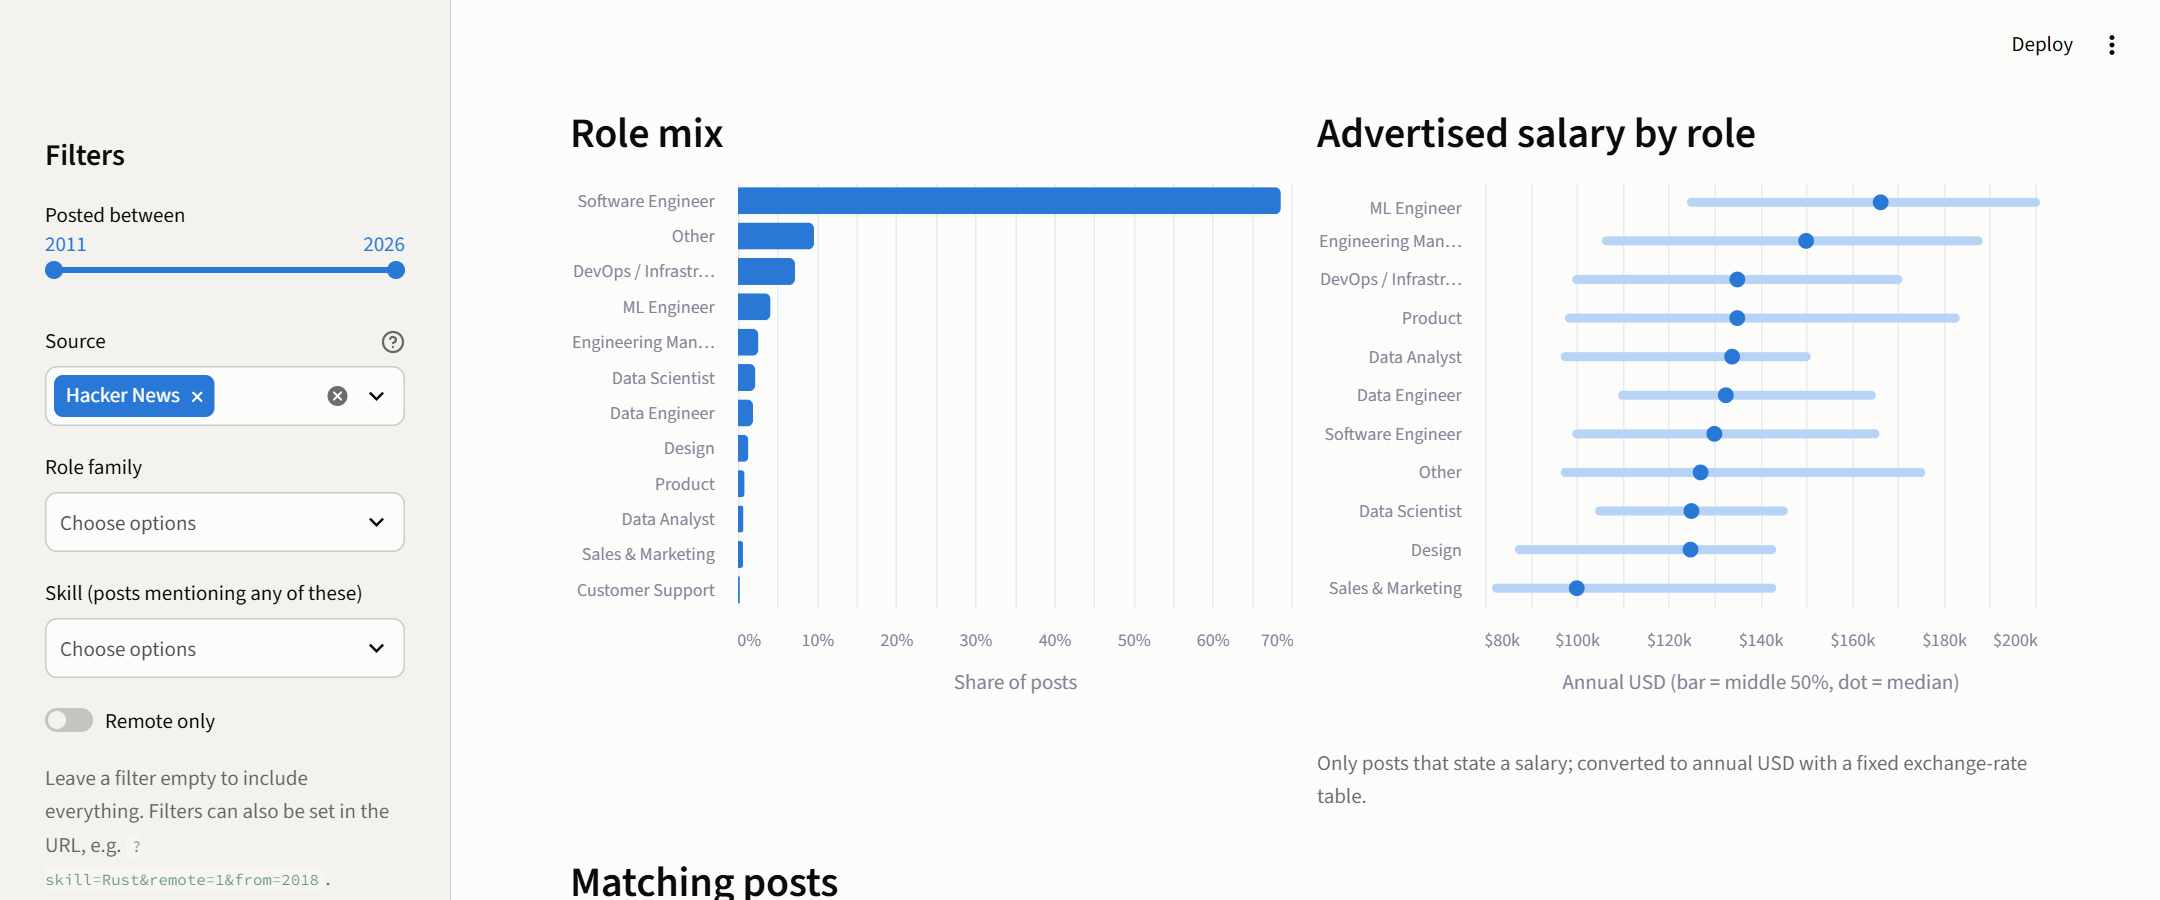
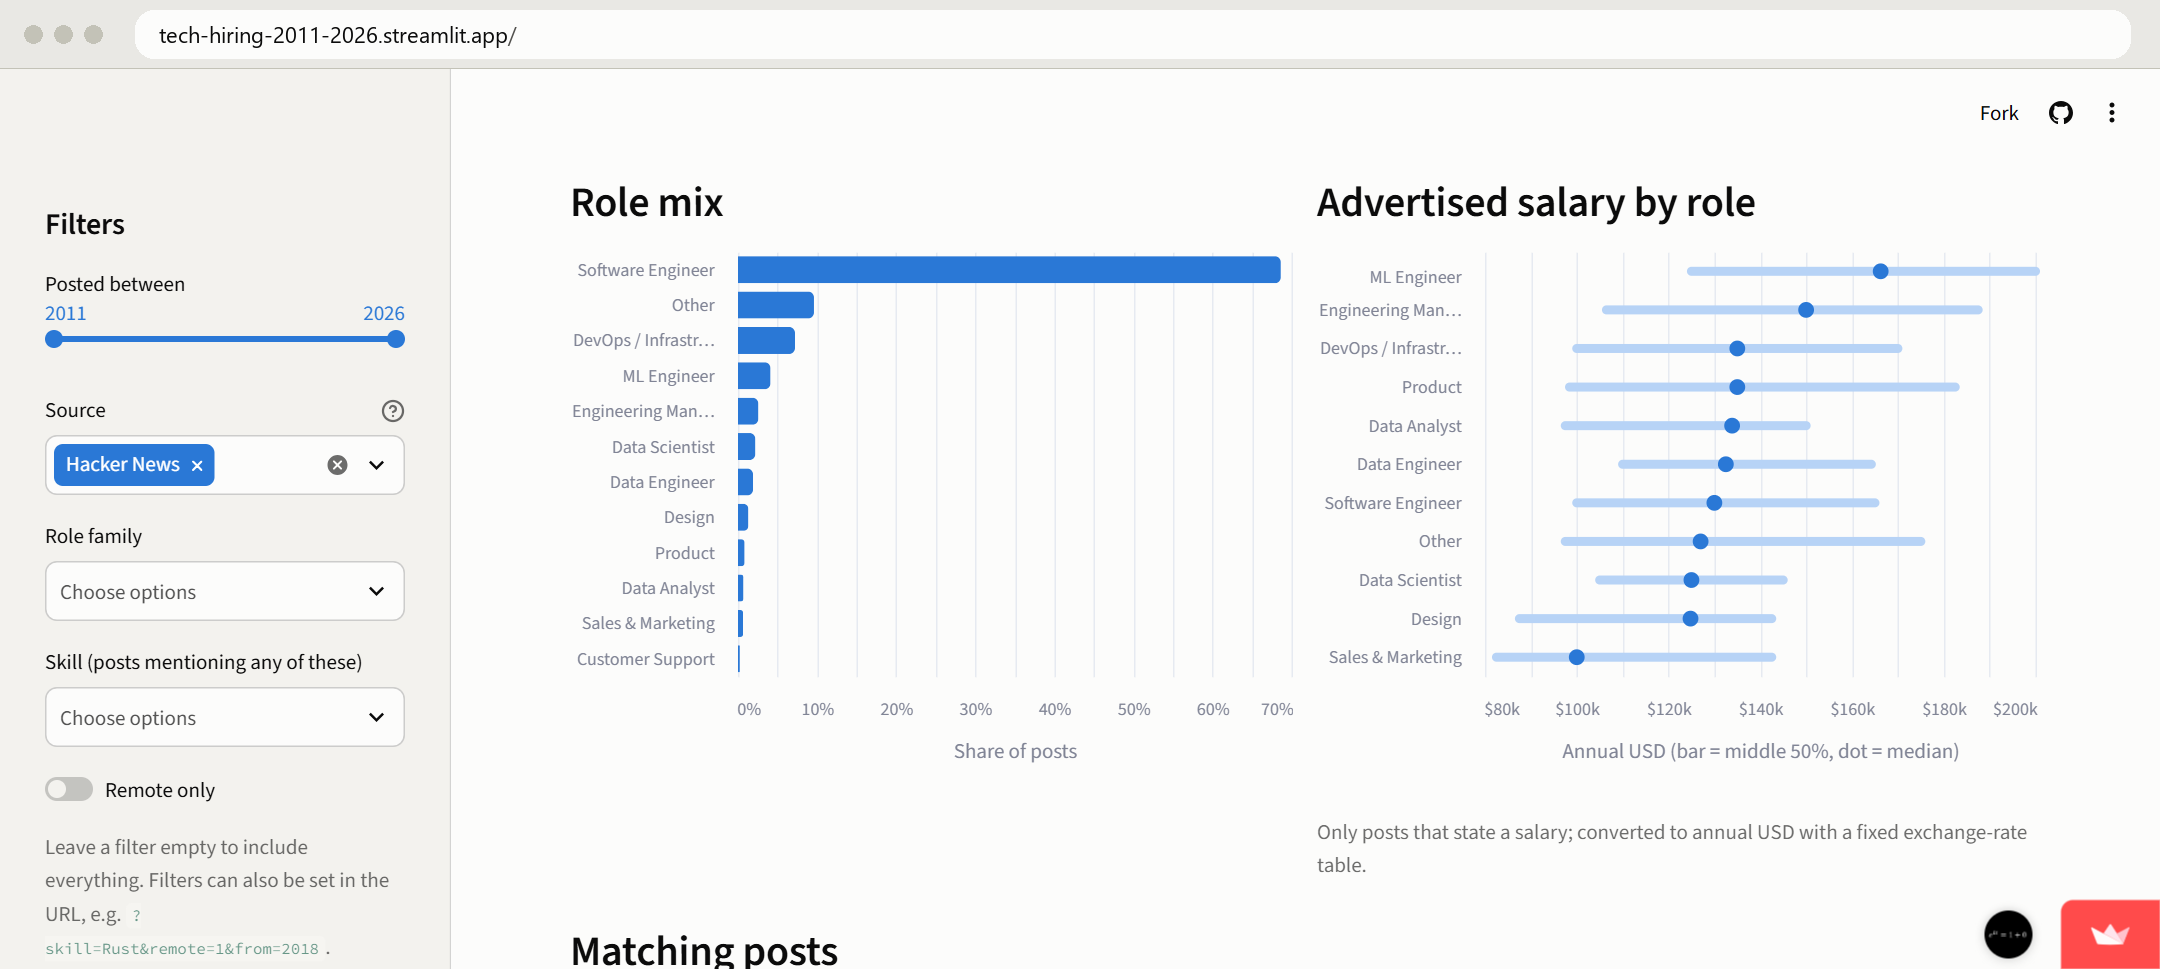
Showcase: dashboard screenshots from the deployed app with endpoint address bars

diff --git a/reports/capture_dashboard.py b/reports/capture_dashboard.py
@@ -1,23 +1,26 @@
-"""Capture dashboard screenshots for the showcase.
+"""Capture dashboard screenshots for the showcase, each with its endpoint in an address bar.
 
 Needs Playwright (dev-only dependency; it drives the Edge already installed on Windows,
 so no browser download):   pip install playwright
 
-Start the dashboard first (streamlit run dashboard/app.py), then:
-
-    python -m reports.capture_dashboard
+    python -m reports.capture_dashboard                              # the deployed app
+    python -m reports.capture_dashboard http://localhost:8501/       # a local run
 
 Each view is just a URL, because the dashboard reads its filters from the query string.
+The address bar drawn on top of every image shows exactly the URL that produced it.
 """
 from __future__ import annotations
 
+import io
+import sys
 from pathlib import Path
 
-from playwright.sync_api import sync_playwright
+from PIL import Image, ImageDraw, ImageFont
+from playwright.sync_api import Frame, Page, sync_playwright
 
 FIG = Path(__file__).resolve().parent / "figures"
-BASE = "http://localhost:8501/"
-W = 1440
+LIVE = "https://tech-hiring-2011-2026.streamlit.app/"
+W, SCALE = 1440, 1.5
 
 # file name -> (query string, heading to scroll to or None for the top, viewport height)
 SHOTS = {
@@ -30,27 +33,68 @@ SHOTS = {
 }
 
 
-def settle(page) -> None:
-    page.wait_for_selector("h1", timeout=60_000)
-    page.wait_for_selector("text=Matching posts", timeout=60_000)
-    page.wait_for_function("document.querySelectorAll('canvas, svg.marks').length >= 5", timeout=60_000)
-    page.wait_for_function("!document.querySelector('[data-testid=\"stStatusWidget\"]')", timeout=60_000)
-    page.wait_for_timeout(1500)
+def app_frame(page: Page) -> Frame:
+    """Streamlit Community Cloud wraps the app in an iframe; locally it is the page itself."""
+    page.wait_for_function(
+        "() => [window, ...Array.from(window.frames)].some(w => { try { return w.document.querySelector('h1') } catch (e) { return false } })",
+        timeout=180_000)
+    for _ in range(120):
+        for fr in page.frames:
+            try:
+                if fr.query_selector("h1") and fr.query_selector("[data-testid='stSidebar']"):
+                    return fr
+            except Exception:
+                pass
+        page.wait_for_timeout(500)
+    raise RuntimeError("dashboard did not load")
 
 
-with sync_playwright() as p:
-    browser = p.chromium.launch(channel="msedge")
-    for name, (query, heading, height) in SHOTS.items():
-        page = browser.new_page(viewport={"width": W, "height": height}, device_scale_factor=1.5,
-                                color_scheme="light")
-        page.goto(BASE + query)
-        settle(page)
-        if heading:
-            page.get_by_role("heading", name=heading).scroll_into_view_if_needed()
-            page.evaluate("""(h) => { const el = [...document.querySelectorAll('h2,h3')].find(e => e.innerText.trim() === h);
-                                      el.scrollIntoView({block: 'start'}); }""", heading)
-            page.wait_for_timeout(1200)
-        page.screenshot(path=str(FIG / name))
-        page.close()
-        print("wrote", name)
-    browser.close()
+def settle(fr: Frame) -> None:
+    fr.wait_for_selector("text=Matching posts", timeout=120_000)
+    fr.wait_for_function("document.querySelectorAll('canvas, svg.marks').length >= 5", timeout=120_000)
+    fr.wait_for_function("!document.querySelector('[data-testid=\"stStatusWidget\"]')", timeout=120_000)
+    fr.page.wait_for_timeout(2000)
+
+
+def with_address_bar(png: bytes, url: str) -> Image.Image:
+    shot = Image.open(io.BytesIO(png)).convert("RGB")
+    bar_h = int(46 * SCALE)
+    out = Image.new("RGB", (shot.width, shot.height + bar_h), "#e9e8e4")
+    out.paste(shot, (0, bar_h))
+    d = ImageDraw.Draw(out)
+    pad, r = int(10 * SCALE), int(13 * SCALE)
+    for i, col in enumerate(("#c3c2b7", "#c3c2b7", "#c3c2b7")):          # window dots
+        cx = int((22 + i * 20) * SCALE)
+        d.ellipse((cx - 6 * SCALE, bar_h / 2 - 6 * SCALE, cx + 6 * SCALE, bar_h / 2 + 6 * SCALE), fill=col)
+    x0 = int(90 * SCALE)
+    d.rounded_rectangle((x0, pad * 0.7, shot.width - pad * 2, bar_h - pad * 0.7), radius=r, fill="#fcfcfb")
+    try:
+        font = ImageFont.truetype("segoeui.ttf", int(15 * SCALE))
+    except OSError:
+        font = ImageFont.load_default()
+    host, _, rest = url.partition("://")[2].partition("/")
+    tx = x0 + int(16 * SCALE)
+    d.text((tx, bar_h / 2), host, font=font, fill="#0b0b0b", anchor="lm")
+    d.text((tx + d.textlength(host, font=font), bar_h / 2), "/" + rest, font=font, fill="#52514e", anchor="lm")
+    d.line((0, bar_h - 1, shot.width, bar_h - 1), fill="#c3c2b7")
+    return out
+
+
+if __name__ == "__main__":
+    base = sys.argv[1] if len(sys.argv) > 1 else LIVE
+    with sync_playwright() as p:
+        browser = p.chromium.launch(channel="msedge")
+        for name, (query, heading, height) in SHOTS.items():
+            page = browser.new_page(viewport={"width": W, "height": height}, device_scale_factor=SCALE,
+                                    color_scheme="light")
+            page.goto(base + query, wait_until="domcontentloaded", timeout=180_000)
+            fr = app_frame(page)
+            settle(fr)
+            if heading:
+                fr.evaluate("""(h) => { const el = [...document.querySelectorAll('h2,h3')].find(e => e.innerText.trim() === h);
+                                        el.scrollIntoView({block: 'start'}); }""", heading)
+                page.wait_for_timeout(1500)
+            with_address_bar(page.screenshot(), base + query).save(FIG / name)
+            page.close()
+            print("wrote", name, base + query)
+        browser.close()

diff --git a/reports/SHOWCASE.md b/reports/SHOWCASE.md
@@ -176,7 +176,8 @@ Arbeitnow and RemoteOK. The full log, including missing-value rates per column, 
 
 The ten figures answer the questions I chose. The dashboard lets a reader ask their own.
 It is a single Streamlit page over the same Parquet tables, and every panel recalculates
-when a filter changes.
+when a filter changes. Every view below is an endpoint of the deployed app: the
+filters live in the address, so each screenshot can be opened as shown.
 
 **Live: <https://tech-hiring-2011-2026.streamlit.app>** (hosted on Streamlit Community
 Cloud; it can take a few seconds to wake if nobody has visited recently). To run it
@@ -189,6 +190,8 @@ streamlit run dashboard/app.py
 ### A. Overview: filters and headline numbers
 
 ![Dashboard overview](figures/dash_1_overview.png)
+
+Endpoint: [`https://tech-hiring-2011-2026.streamlit.app/`](https://tech-hiring-2011-2026.streamlit.app/)
 
 * **Filters (left).** Year range, source, role family, skill, and a "remote only" switch.
   An empty filter means "everything". The skill filter keeps posts that mention *any* of
@@ -205,6 +208,8 @@ streamlit run dashboard/app.py
 
 ![Skills panels](figures/dash_2_skills.png)
 
+Endpoint: [`https://tech-hiring-2011-2026.streamlit.app/`](https://tech-hiring-2011-2026.streamlit.app/) (same endpoint, scrolled to the skills row)
+
 * **Most mentioned skills** ranks the top 15 for whatever is currently filtered, as a
   share of posts.
 * **Skill trend by year** compares up to four skills of your choice. The default view
@@ -215,6 +220,8 @@ streamlit run dashboard/app.py
 
 ![Roles and salary panels](figures/dash_3_roles_salary.png)
 
+Endpoint: [`https://tech-hiring-2011-2026.streamlit.app/`](https://tech-hiring-2011-2026.streamlit.app/) (same endpoint, scrolled to the roles row)
+
 * **Role mix** shows which role families the filtered posts belong to.
 * **Advertised salary by role** draws the median (dot) and the middle 50% of posts
   (bar) for each role with at least 20 salaried posts. Showing the spread matters here:
@@ -223,6 +230,8 @@ streamlit run dashboard/app.py
 ### D. Filters in action
 
 ![Filtered view: remote Rust jobs since 2018](figures/dash_4_filtered.png)
+
+Endpoint: [`https://tech-hiring-2011-2026.streamlit.app/?skill=Rust&remote=1&from=2018`](https://tech-hiring-2011-2026.streamlit.app/?skill=Rust&remote=1&from=2018)
 
 The same page narrowed to *remote posts mentioning Rust since 2018*: 1,757 posts from
 562 companies, 12% stating a salary, median $172k against $130k for the unfiltered
@@ -243,6 +252,8 @@ Accepted parameters: `from`, `to` (years), `source` (`hn`, `wwr`, `arbeitnow`,
 
 ![Matching posts table](figures/dash_5_table.png)
 
+Endpoint: [`https://tech-hiring-2011-2026.streamlit.app/?skill=Rust&remote=1&from=2018`](https://tech-hiring-2011-2026.streamlit.app/?skill=Rust&remote=1&from=2018) (scrolled to the table)
+
 The newest 500 matching posts, sortable and searchable, with company, title, role,
 location, remote flag and salary. Each row links to the original listing, which keeps
 the aggregates checkable and honours the boards' request for a link back.
@@ -251,14 +262,17 @@ the aggregates checkable and honours the boards' request for a link back.
 
 ![All four sources, 2026](figures/dash_6_all_sources.png)
 
+Endpoint: [`https://tech-hiring-2011-2026.streamlit.app/?source=hn,wwr,arbeitnow,remoteok&from=2026`](https://tech-hiring-2011-2026.streamlit.app/?source=hn,wwr,arbeitnow,remoteok&from=2026)
+
 Selecting all four sources for 2026 gives the live version of figure 10: once the
 general-purpose boards are added, sales, marketing, support and non-tech roles take up
 a large part of the mix, and the salary panel gains roles such as customer support that
 barely exist on Hacker News.
 
-The screenshots are generated, not taken by hand: `python -m reports.capture_dashboard`
-opens each view by its link in headless Edge and saves the images, so they can be
-refreshed after every pipeline run.
+The screenshots are taken from the deployed app, not a local run, and each carries the
+endpoint that produced it in its address bar. They are generated, not taken by hand:
+`python -m reports.capture_dashboard` opens each endpoint in headless Edge and saves the
+images, so they can be refreshed after every pipeline run.
 
 ## Reproduce
 
